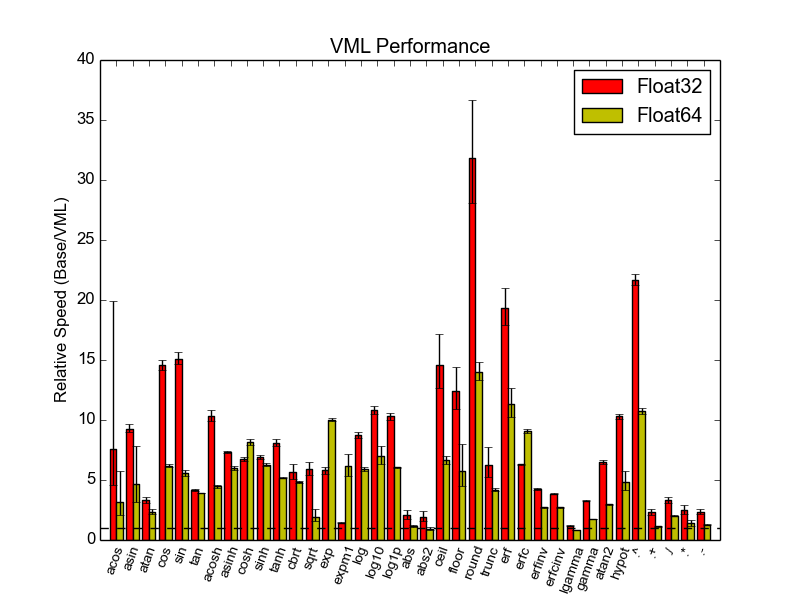
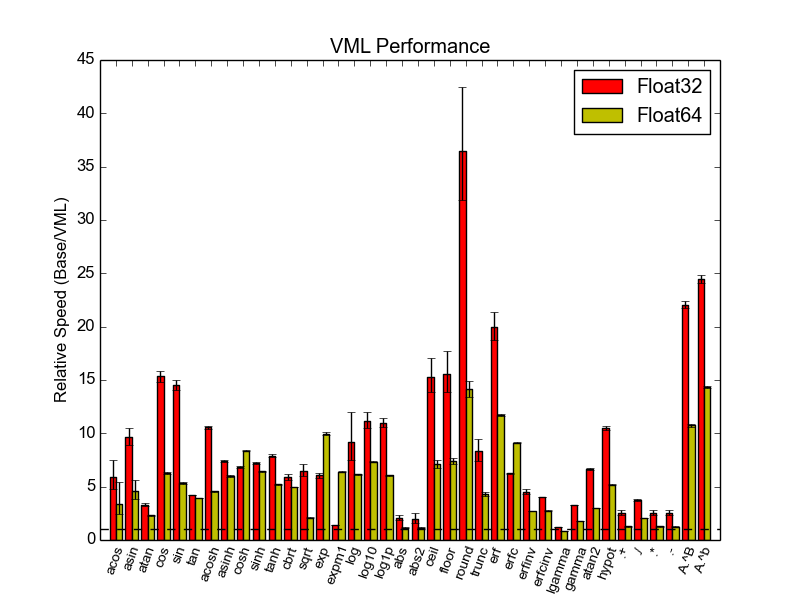
Add benchmarks for A.^b where b is scalar

diff --git a/README.md b/README.md
@@ -28,9 +28,10 @@ regarding these options is available on
 ![VML Performance Comparison](/benchmark/performance.png)
 
 Tests were performed on an Intel(R) Core(TM) i7-3930K CPU. Error bars
-are 95% confidence intervals based on 10 repetitions of each test with
+are 95% confidence intervals based on 25 repetitions of each test with
 a 1,000,000 element vector. The dashed line indicates equivalent
-performance for VML versus the implementations in Base.
+performance for VML versus the implementations in Base. Both Base and
+VML use only a single core when performing these benchmarks.
 
 ## Supported functions
 
